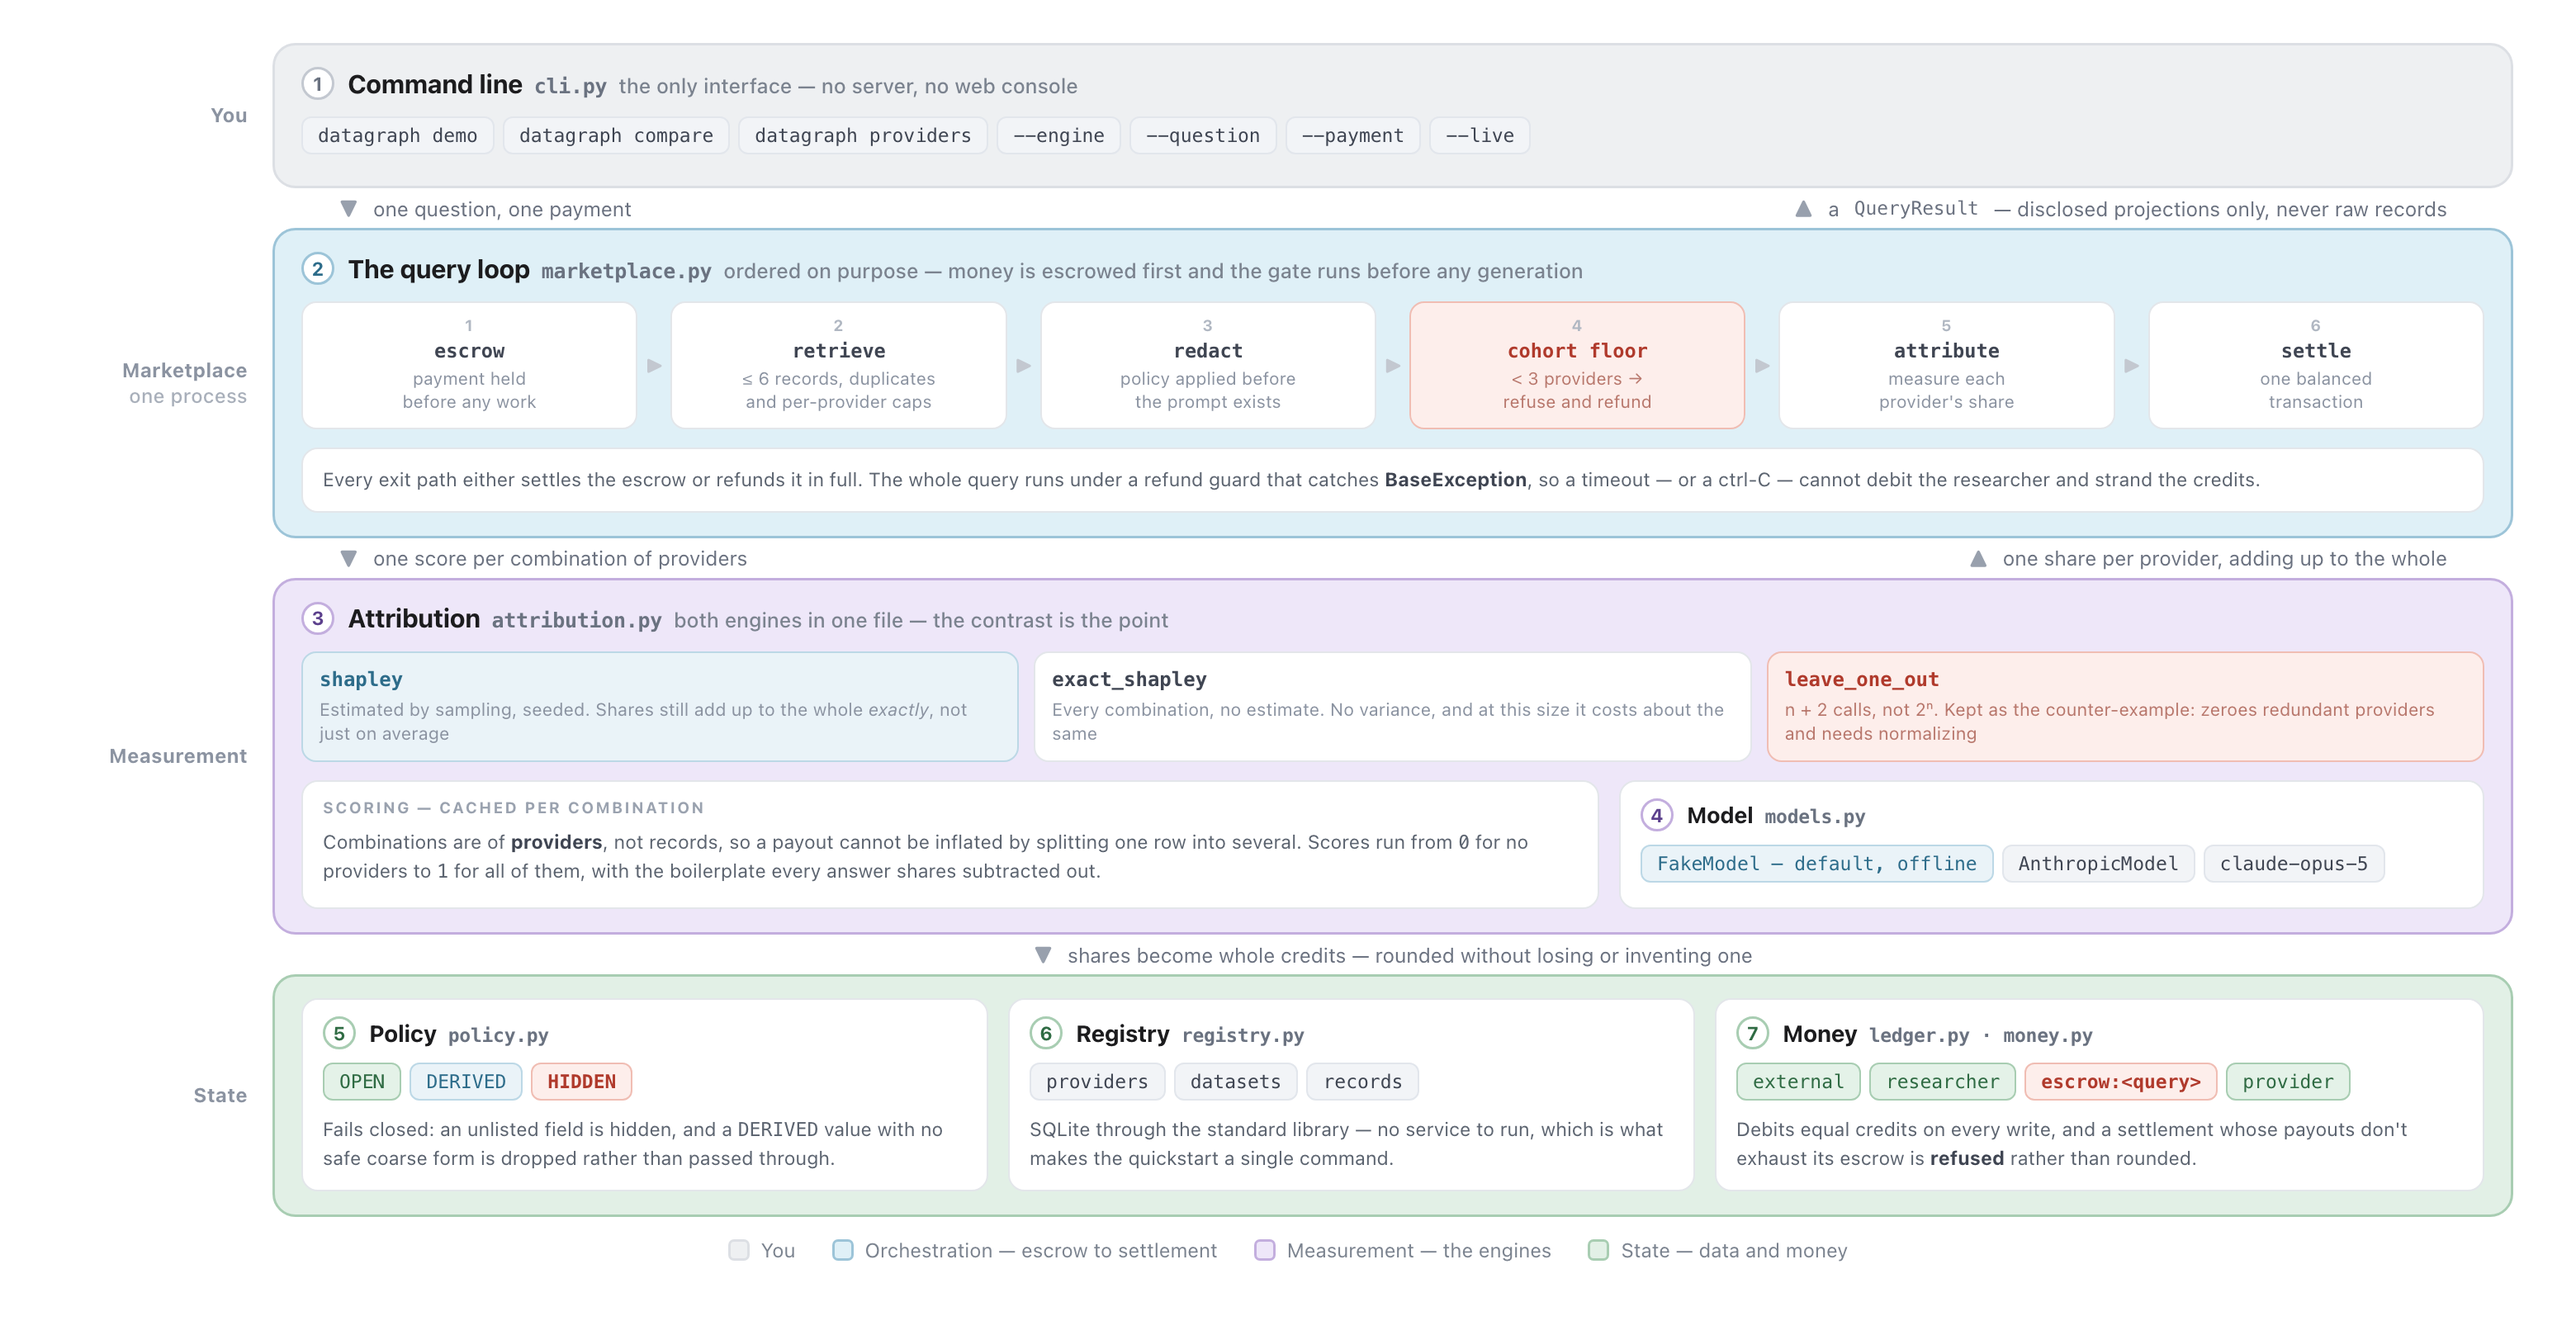
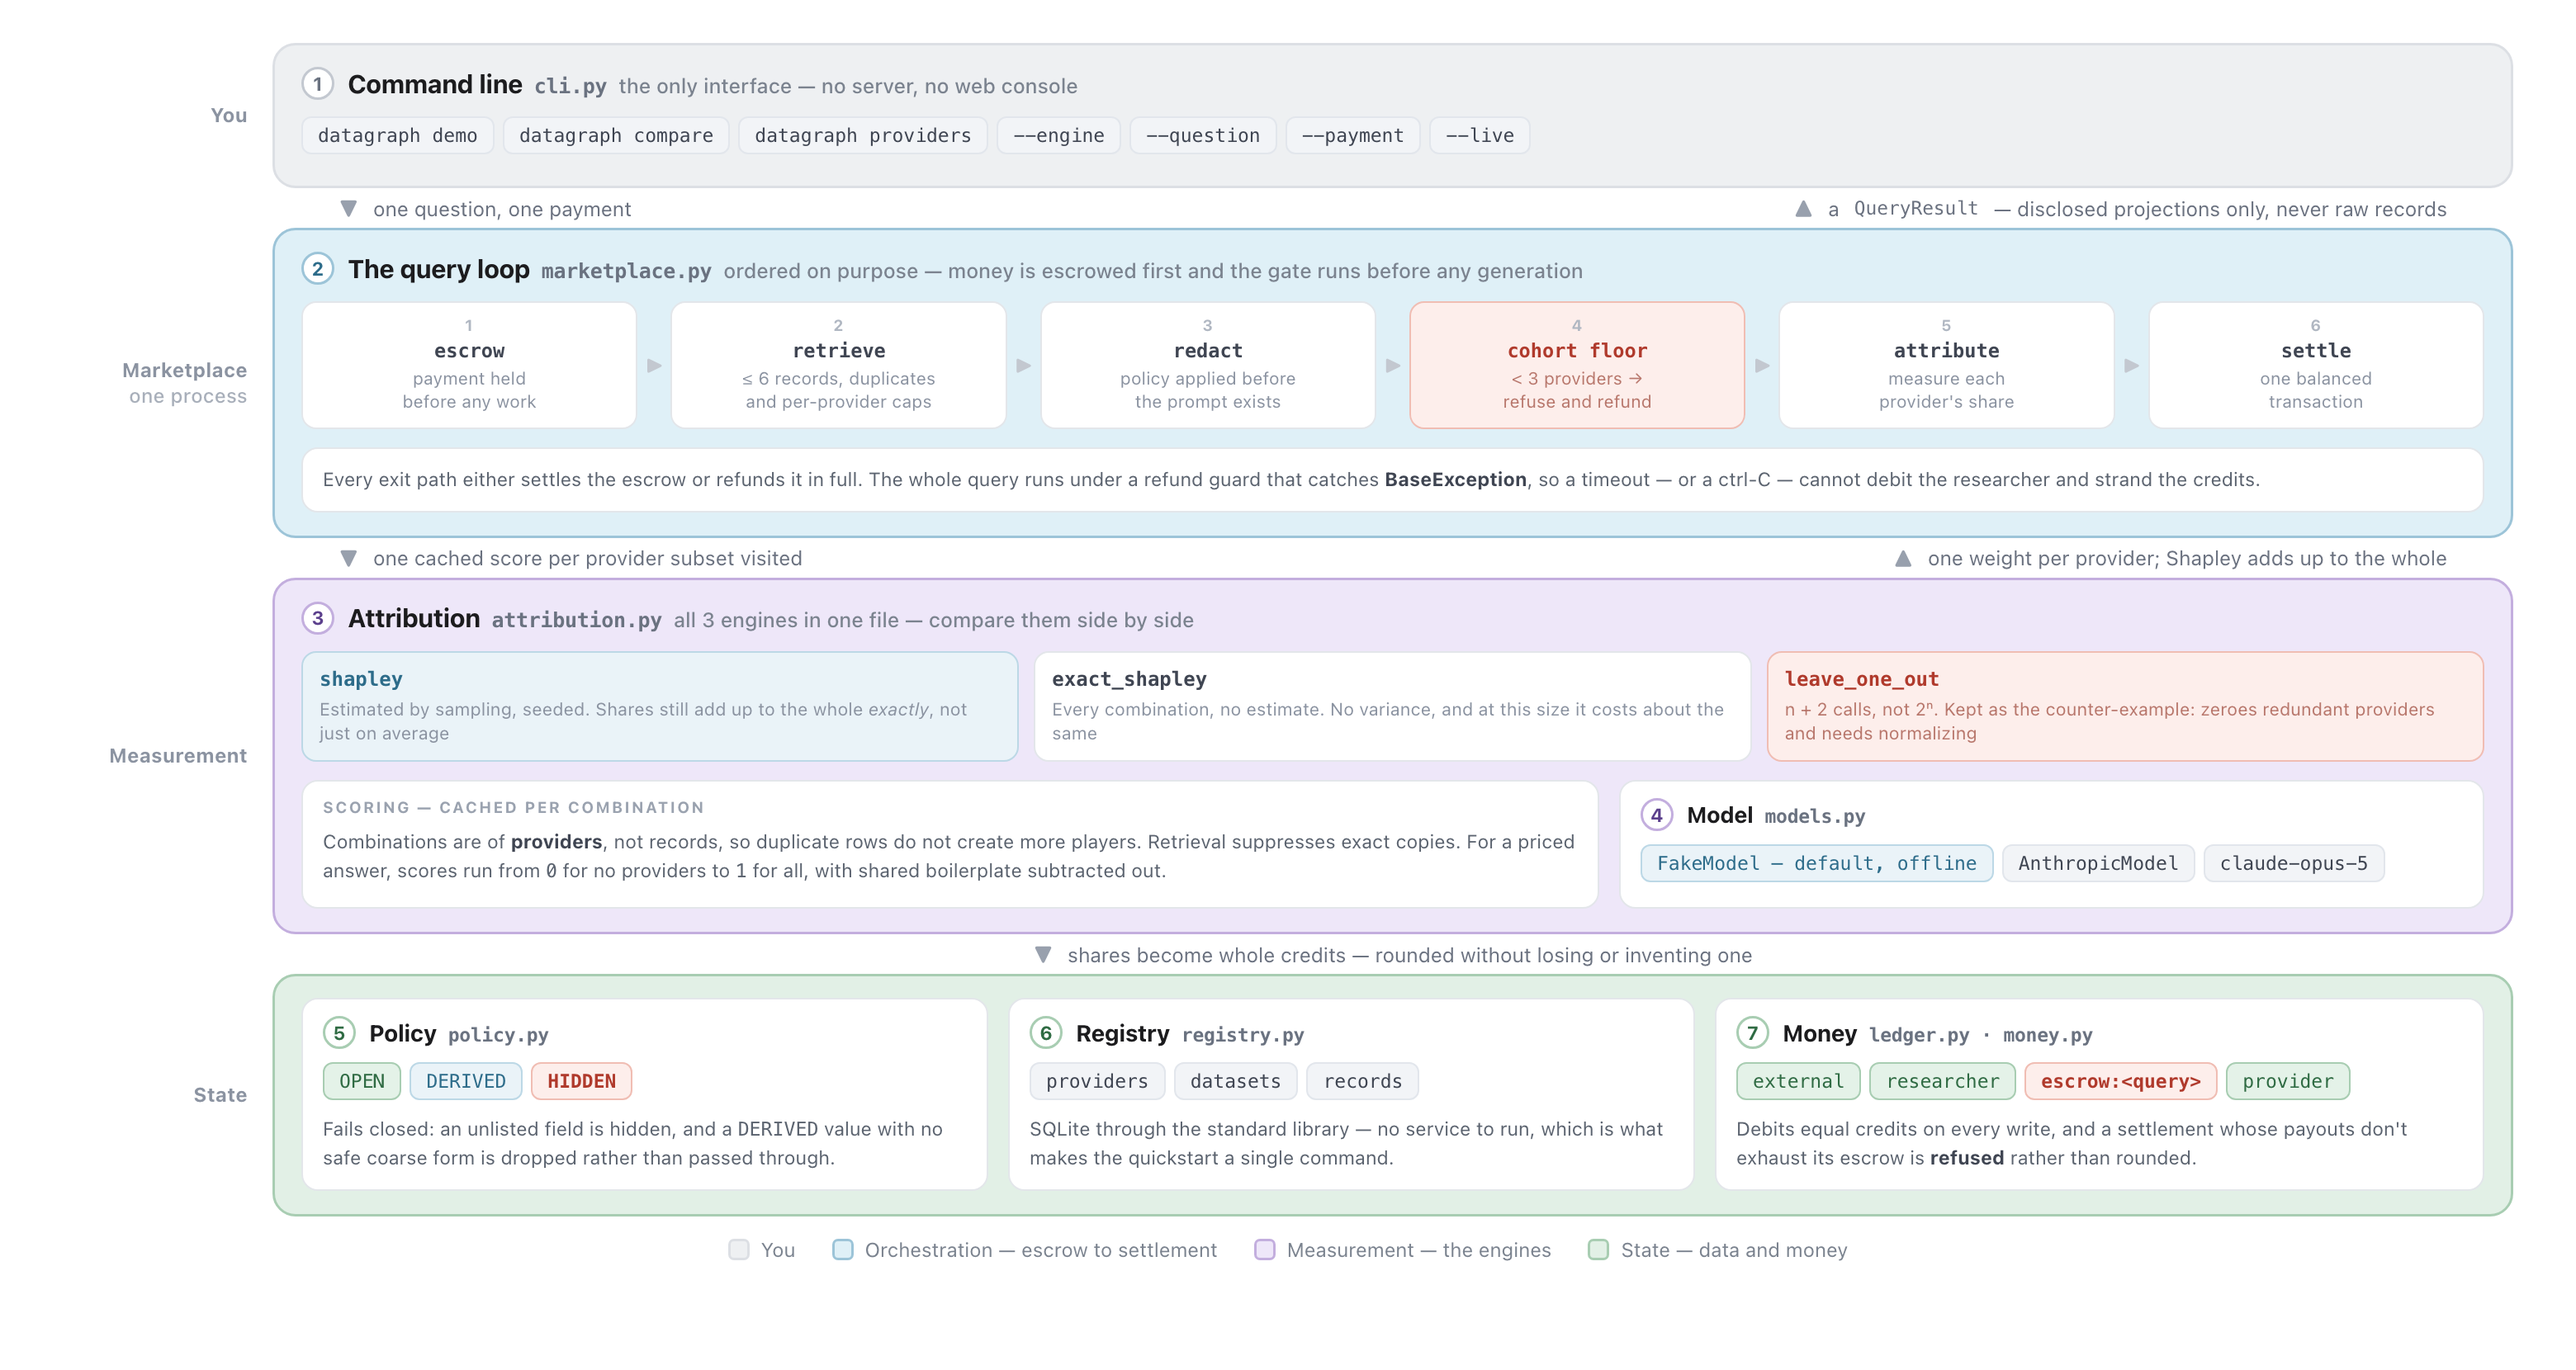
Re-render both diagrams to match the rewritten documents

diff --git a/docs/architecture.html b/docs/architecture.html
@@ -162,8 +162,8 @@
 </div>
 
 <div class="conn"><div></div><div class="legs h9">
-  <div class="leg"><span class="glyph">&#9660;</span> one score per combination of providers</div>
-  <div class="leg"><span class="glyph">&#9650;</span> one share per provider, adding up to the whole</div>
+  <div class="leg"><span class="glyph">&#9660;</span> one cached score per provider subset visited</div>
+  <div class="leg"><span class="glyph">&#9650;</span> one weight per provider; Shapley adds up to the whole</div>
 </div></div>
 
 <!-- ============ 3+4  ATTRIBUTION / MODEL ============ -->
@@ -171,7 +171,7 @@
   <div class="gutter">Measurement</div>
   <div class="band purp">
     <div class="btitle"><div class="num n-p">3</div>
-      <div class="bt">Attribution<code>attribution.py</code><small>both engines in one file — the contrast is the point</small></div></div>
+      <div class="bt">Attribution<code>attribution.py</code><small>all 3 engines in one file — compare them side by side</small></div></div>
 
     <div class="eng">
       <div class="e def"><div class="en">shapley</div><div class="ec">Estimated by sampling, seeded. Shares still add up to the whole <i>exactly</i>, not just on average</div></div>
@@ -183,9 +183,9 @@
       <div class="card">
         <div class="clabel">Scoring — cached per combination</div>
         <div class="kv">
-          Combinations are of <b>providers</b>, not records, so a payout cannot be inflated by splitting
-          one row into several. Scores run from <span class="m">0</span> for no providers to
-          <span class="m">1</span> for all of them, with the boilerplate every answer shares subtracted out.
+          Combinations are of <b>providers</b>, not records, so duplicate rows do not create more players.
+          Retrieval suppresses exact copies. For a priced answer, scores run from <span class="m">0</span>
+          for no providers to <span class="m">1</span> for all, with shared boilerplate subtracted out.
         </div>
       </div>
       <div class="card">

diff --git a/docs/how-it-works.html b/docs/how-it-works.html
@@ -178,9 +178,9 @@
 
     <div class="note">
       <b>Adding <span class="m">cascade</span> to <span class="m">borealis</span> changes the score by exactly zero.</b>
-      They disclose identical records, so each one is redundant given the other. That is the whole
-      disagreement between the engines, in one line — and it is in the fixture on purpose, because
-      redundancy does not arrive on cue.
+      They disclose identical records, so each one is redundant given the other. Leave-one-out pays
+      both providers 0; Shapley measures them across other provider combinations and splits the credit.
+      The duplicate fact is included in the fixture specifically to show this case.
     </div>
   </div>
 
